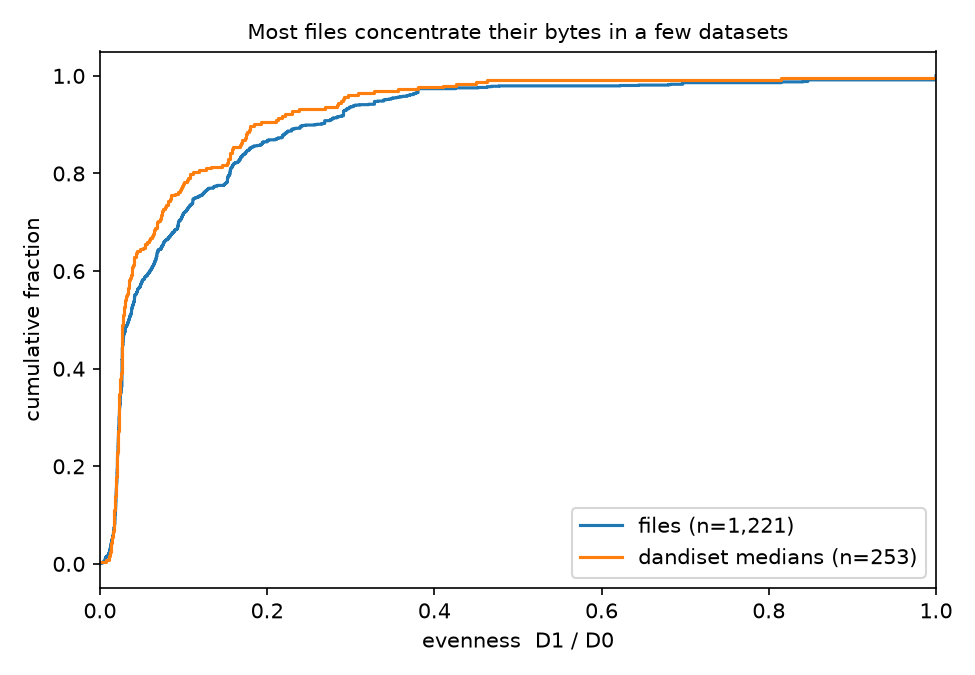
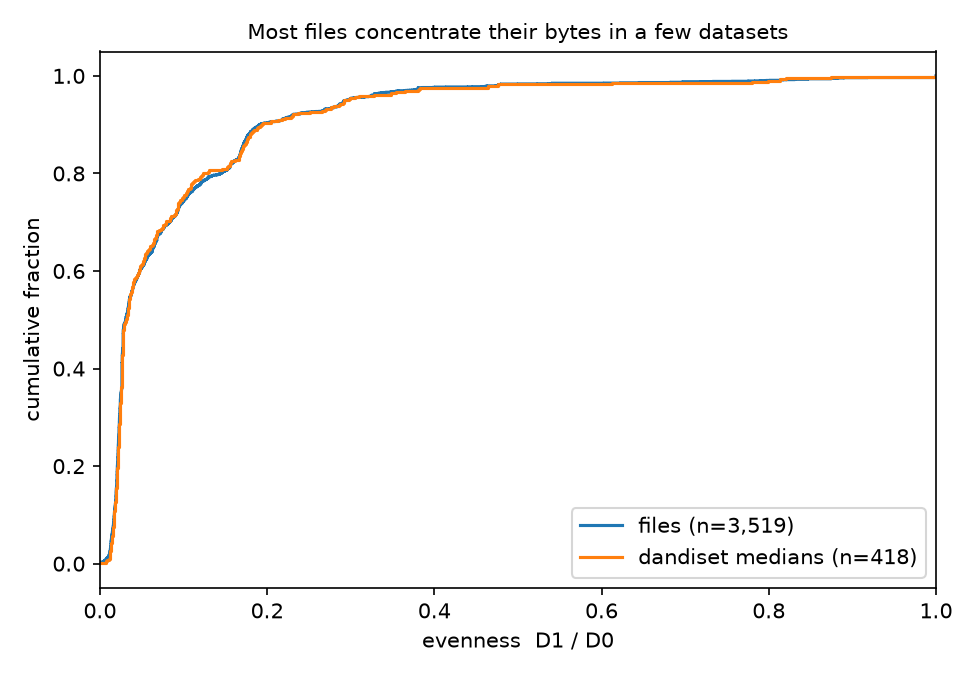
Regenerated the byte-weighted figures and findings on the larger sample
The figures and FINDINGS_byte_weighted.md now describe 3,519 files from 418
dandisets, drawn from the current dandi-cache caches rather than the 4,493-file
snapshot. The conclusions hold, with evenness less tied to size than the first
sample showed (Spearman with bytes -0.39, was -0.53) and a stronger
acquisition-versus-processing axis (PC1 45%, was 39%). The 65 largest files
are still being retried and are listed as pending.

Claude-Session: https://claude.ai/code/session_015rd4wDp52P3Ryv3QqMJ4Z9

Changed region(s): [[0.1231, 0.0933, 0.9538, 0.4978], [0.7692, 0.7467, 0.8, 0.8089], [0.8923, 0.8089, 0.9231, 0.84]]

diff --git a/analysis/access_vs_structure/FINDINGS_byte_weighted.md b/analysis/access_vs_structure/FINDINGS_byte_weighted.md
@@ -4,67 +4,84 @@ Exploratory. Not yet folded into `WHITEPAPER.md`.
 
 ## Sample
 
-The file was walked with `remfile` and `h5py` over the S3 blob URL. LINDI and the DANDI API were both unreachable from
-the environment that ran it, so neither was used. The sample is stratified, at most 10 files per dandiset, random with
-seed 0, drawn from the 4,493 files in `access_structure.csv`.
+The walk opened each file with `remfile` and `h5py` over its S3 blob URL. LINDI and the DANDI API were both
+unreachable from the environment that ran it, so neither was used.
 
-- Sampled 1,224 files from 253 dandisets. Walked **1,221 files from all 253 dandisets**.
-- Three files failed. Each timed out after an hour of traversing a chunk index too large to read over HTTP:
-  `21702bde-fa75-4cb4-b36a-1cd6732fe50e` (dandiset 1371, 236 GB), `38e53e31-103c-4639-b611-4abc58675a29`
-  (552, 147 GB) and `42b9f9ad-a677-49f8-a887-21de353af178` (114, 49 GB). Nine other large files first timed out at
-  15 minutes and were recovered by a second pass that skipped the chunk count. The largest file walked holds 438 GB.
-  The sample therefore reaches the size tail, but its three largest unwalked files are missing.
-- 2,768 datasets across 125 files had zero allocated storage. They are excluded from `D0` and from the shares.
+The committed `access_structure.csv` is a snapshot of 4,493 files from 253 dandisets. The `dandi-cache` structural
+caches have since grown about 25 times, so this sample is drawn from a refreshed join of the current caches instead.
+That join holds 112,445 files with access counts across 423 dandisets, and every file of the old snapshot is in it.
+It is rebuilt with `build_dataset.py` and kept in the gitignored cache directory, so the whitepaper's snapshot is
+untouched. The sample is stratified at most 10 files per dandiset, random with seed 0.
 
-Every statistic below is reported twice. "Files" means the per-file values, capped at 10 per dandiset. "Dandisets"
-means one median per dandiset (n = 253).
+- Sampled 3,584 files from 423 dandisets. Walked **3,519 files from 418 dandisets**.
+- **65 files are still pending.** They are the largest in the sample, with a median of 27 GB and a maximum of
+  938 GB, and they come from 14 dandisets. All timed out at 15 minutes while traversing their chunk index, or were
+  killed for memory. A second pass that skips the chunk count and allows an hour per file is retrying them. They are
+  listed in `byte_weighted_failures.csv`.
+- Five dandisets have no walked file yet: 692, 776, 1371, 1413 and 1535. Nine more are partially walked.
+- The size tail is still well represented. Files over 10 GB make up 8.0% of the walked sample against 3.7% of the
+  full table, because capping each dandiset at 10 files gives big-file dandisets equal weight. The largest file
+  walked holds 726 GB.
+- 6,244 datasets across 303 files had zero allocated storage. They are excluded from `D0` and from the shares.
+
+Every statistic below is reported for "files", meaning per-file values capped at 10 per dandiset, and for
+"dandisets", meaning one median per dandiset (n = 418). With this many dandisets the two now agree closely.
 
 ## Figures
 
-**1. `D1` against `D0`.** The points do not hug the `D1 = D0` line. The median file has 68 nonzero datasets but an
-effective number of only 4.1, with a median evenness of 0.035. A third of files (32%) hold over 90% of their bytes in
-a single dataset. So `D1` is not object count restated, but it is still strongly ordered by it, as figures 2 and 6
-show.
+**1. `D1` against `D0`.** The points do not hug the `D1 = D0` line. The median file has 62 nonzero datasets but an
+effective number of only 3.0, with a median evenness of 0.031. More than a third of files (36.5%) hold over 90% of
+their bytes in a single dataset. So `D1` is not object count restated, but it is still strongly ordered by it, as
+figures 2 and 6 show.
 
 **2. `D1` and evenness against bytes.** Holding size fixed, `D1` stays tied to count, with partial Spearman
-`D1 ~ D0 | bytes` = +0.82 for both files and dandisets. Holding count fixed, larger files concentrate their bytes, with
-partial Spearman `D1 ~ bytes | D0` = −0.64 for files and −0.54 for dandisets. Evenness has essentially no relation to
-count (Spearman +0.06 for files, +0.02 for dandisets). It falls with size instead: Spearman −0.53 for files and −0.43
-for dandisets, and partial `E ~ bytes | D0` = −0.54 and −0.43.
+`D1 ~ D0 | bytes` = +0.81 for both files and dandisets. Holding count fixed, larger files concentrate their bytes,
+with partial Spearman `D1 ~ bytes | D0` = −0.54 for files and −0.53 for dandisets. Evenness has little relation to
+count (Spearman +0.07 for files, +0.10 for dandisets). It falls with size instead: Spearman −0.39 for files and −0.38
+for dandisets, and partial `E ~ bytes | D0` = −0.40 and −0.39.
 
-**3. ECDF of evenness.** Most files and most dandisets sit below 0.1. The dandiset-median curve tracks the file curve,
-so the cap is not hiding a different picture.
+**3. ECDF of evenness.** About three quarters sit below 0.1, 74% of files and 75% of dandiset medians. The two curves
+coincide, so the cap is not hiding a different picture.
 
 **4. Lorenz curves.** These are eight files at evenly spaced evenness quantiles. At the low end, a single dataset
-carries almost everything. Only the top quantiles approach the diagonal, and those are small files with few datasets.
+carries almost everything. Only the top quantiles approach the diagonal.
 
-**5. Section composition.** Bytes live in acquisition for 149 of 253 dandisets (median share > 0.5) and in processing
-for 58. Stimulus, units and general take the bulk only in a minority. The CLR-PCA of section shares has its first two
-components at 39% and 21%, and they separate along the acquisition-versus-processing axis.
+**5. Section composition.** Bytes live in acquisition for 248 of 418 dandisets (median share > 0.5) and in processing
+for 96. Stimulus, units and general take the bulk only in a minority. The CLR-PCA of section shares has its first
+component at 45% and its second at 20%. The first component is the acquisition-versus-processing axis.
 
-**6. Validation panel.** Every metric is mostly a dandiset property, with between-dandiset ICC(1) of 0.81–0.90: log `D0`
-0.84, log bytes 0.90, log cophenetic 0.82, log `D1` 0.82, log `D2` 0.81, evenness 0.87. Log cophenetic is count again
-(Spearman with log `D0` 0.98). `D1` and `D2` are mostly count (0.71 and 0.67 for files, 0.75 and 0.71 for dandisets)
-with a negative size component (−0.33 for files, −0.25 for dandisets). Evenness is uncorrelated with count (0.06 for
-files, 0.02 for dandisets) and moderately anti-correlated with size (−0.53 for files, −0.43 for dandisets).
+**6. Validation panel.** Every metric is mostly a dandiset property, with between-dandiset ICC(1) of 0.87–0.94: log
+`D0` 0.94, log bytes 0.91, log cophenetic 0.93, log `D1` 0.92, log `D2` 0.92, evenness 0.87. Log cophenetic is count
+again (Spearman with log `D0` 0.98). `D1` and `D2` are mostly count, at 0.74 and 0.70 for files and 0.75 and 0.71 for
+dandisets, with a negative size component of −0.29 and −0.28. Evenness is nearly uncorrelated with count (0.07 for
+files, 0.10 for dandisets) and moderately anti-correlated with size (−0.39 for files, −0.38 for dandisets).
 
-**7. Access, at dandiset level only (n = 253, medians).** Log bytes remains the strongest correlate of download fraction
-(Spearman −0.73), followed by log `D0` (−0.51). `D1` (−0.21) and evenness (+0.25) are weak. With log `D0` and log
-bytes both controlled, `D1` keeps a partial Spearman of −0.22 with download fraction. That is a small residual signal,
-not a new predictor. No per-file access model was fitted.
+**7. Access, at dandiset level only (n = 418, medians).** Log bytes remains the strongest correlate of download
+fraction (Spearman −0.74), followed by log `D0` (−0.47). `D1` (−0.18) and evenness (+0.15) are weak. With log `D0`
+and log bytes both controlled, `D1` keeps a partial Spearman of −0.26 with download fraction. That is a small residual
+signal, not a new predictor. No per-file access model was fitted.
+
+## What changed from the first sample
+
+The first pass walked 1,221 files from the 4,493-file snapshot. The conclusions hold, with two refinements. First,
+evenness is less tied to size than it looked. Its Spearman with bytes went from −0.53 to −0.39, so it now shares
+about 15% of its rank variance with log bytes rather than about 28%. Second, the acquisition-versus-processing axis
+is stronger, with PC1 rising from 39% to 45%. The per-file and dandiset-level numbers also converged, which is what
+the larger dandiset count should do.
 
 ## Plain statement
 
-Neither metric separates cleanly. `D1` is largely object count, modulated by size: larger files concentrate their bytes
-in fewer datasets. Evenness is the one quantity that is independent of count. But it is not independent of size,
-because roughly a quarter of its rank variance is shared with log bytes. So it does not escape the
-"structure vs. size" collapse either. It trades the count axis for a partial size axis. What the byte-weighted view
-does add is where the bytes sit. Section composition, acquisition-dominated versus processing-dominated, is a real
-and dandiset-level distinction that the unlabeled-tree metrics cannot express. If anything here earns a place in the
-whitepaper, it is that, and not `D1` or evenness as a complexity score.
+Neither metric is a new complexity score. `D1` is largely object count, modulated by size, because larger files
+concentrate their bytes in fewer datasets. Evenness is the one quantity close to independent of count. It still
+carries a moderate size component, though weaker than the smaller sample suggested, so it only partly escapes the
+"structure vs. size" collapse. What the byte-weighted view does add is where the bytes sit. Section composition,
+acquisition-dominated versus processing-dominated, is a real, strong, dandiset-level distinction that the
+unlabeled-tree metrics cannot express. If anything here earns a place in the whitepaper, it is that, and not `D1` or
+evenness as a complexity score.
 
 ## Follow-up
 
-- Zarr assets were not walked. This pass is HDF5 only.
-- Each failed file needs either a longer timeout or a chunk-index-free size estimate.
-- The full 4,493 files would let the dandiset-level numbers use more than 10 files per dandiset.
+- The 65 large files still being retried. Each needs either a longer timeout or a chunk-index-free size estimate.
+- Zarr assets. This pass is HDF5 only.
+- A walk without the per-dandiset cap. The largest dandiset alone holds 14,181 files, so that would need a different
+  weighting scheme rather than just more time.
